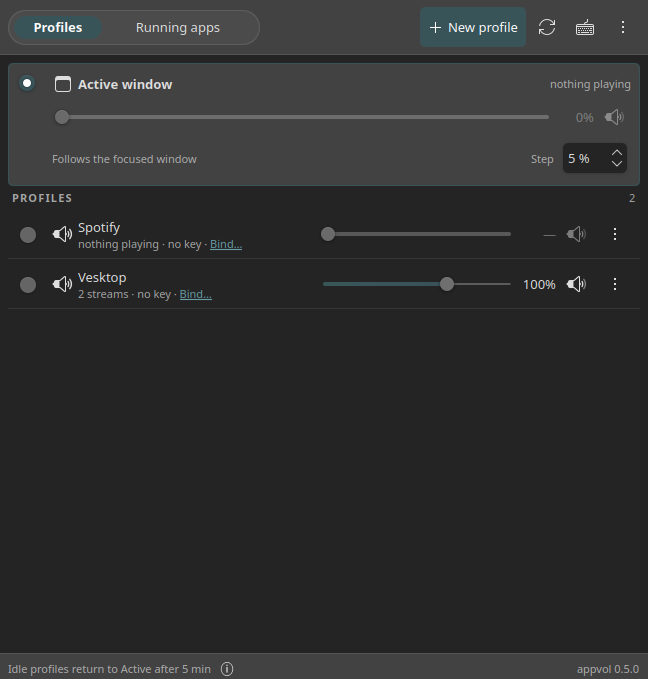
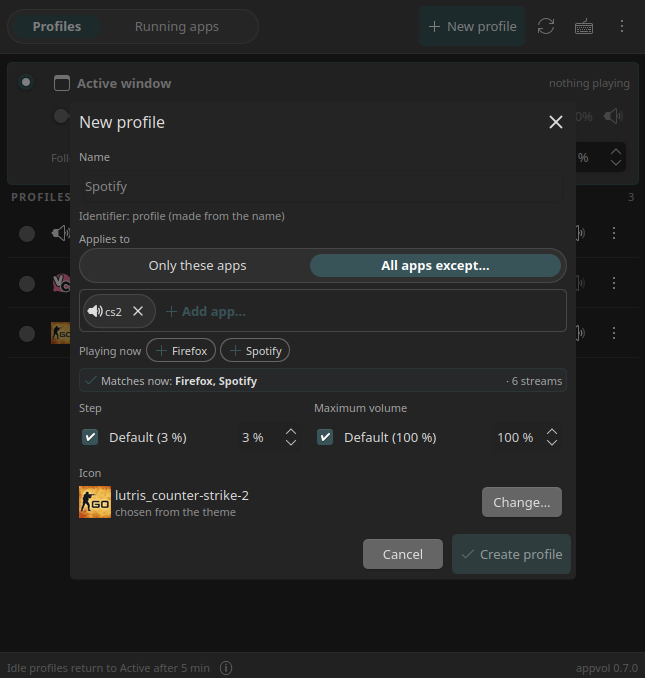
docs: refresh the profile screenshot and call the window section GUI
The screenshot shows the editor now, so the caption says so too.

diff --git a/README.md b/README.md
@@ -85,7 +85,7 @@ appvol up --profile spotify     # one call, without switching to it
 ```
 
 <p align="center">
-  <img src="docs/images/profile.png" alt="The appvol window in the profiles view: the pinned Active window card, then one line per profile with its live volume, its matched streams and its bound key" width="640">
+  <img src="docs/images/profile.png" alt="The appvol window with the editor of a profile open: the Name field, the Applies to switch, the chips of the applications it covers, what is playing now, what the profile matches at the moment, the step and the maximum volume, and the icon; behind it, one line per profile" width="640">
 </p>
 
 `--include` takes application identifiers; the reverse-DNS name also matches by
@@ -120,7 +120,7 @@ and `appvol mode` alone reports the current one.
 The step and the ceiling stay global in the auto mode, and `profiles.toml` is
 left untouched, so the two modes never overwrite each other.
 
-## The window
+## GUI
 
 `appvol-gui` (or `bin/appvol-gui` from the checkout) opens a small window over the
 profiles: the built-in **Active window** pinned at the top, then one line per
